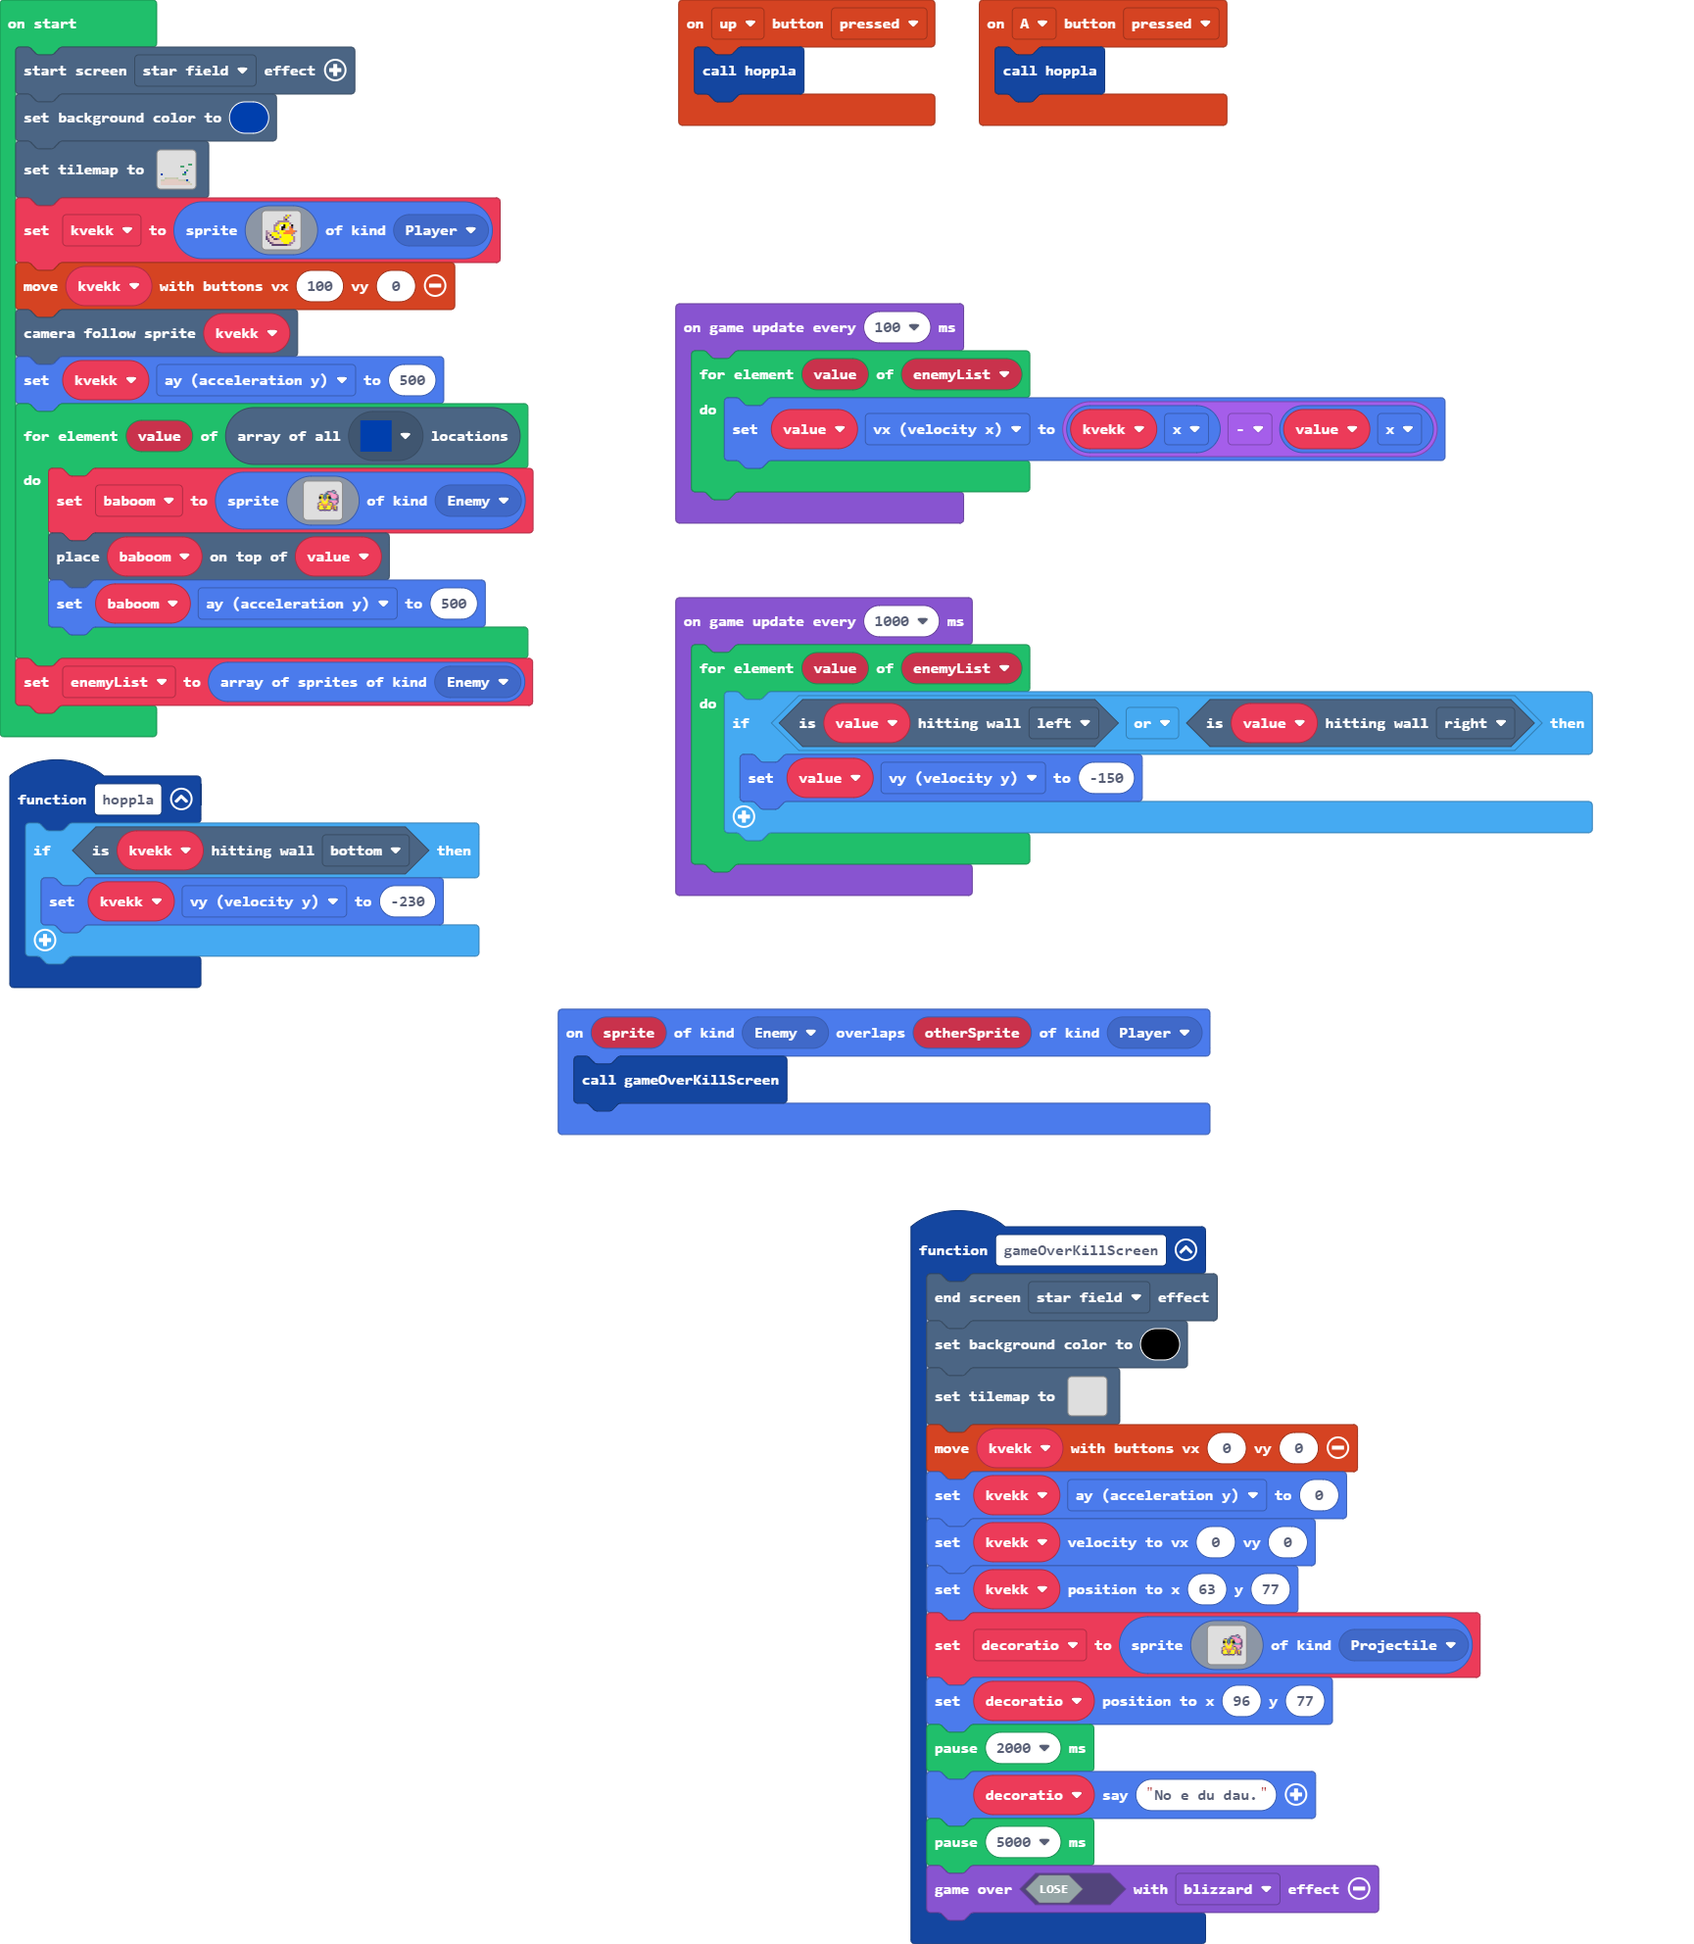
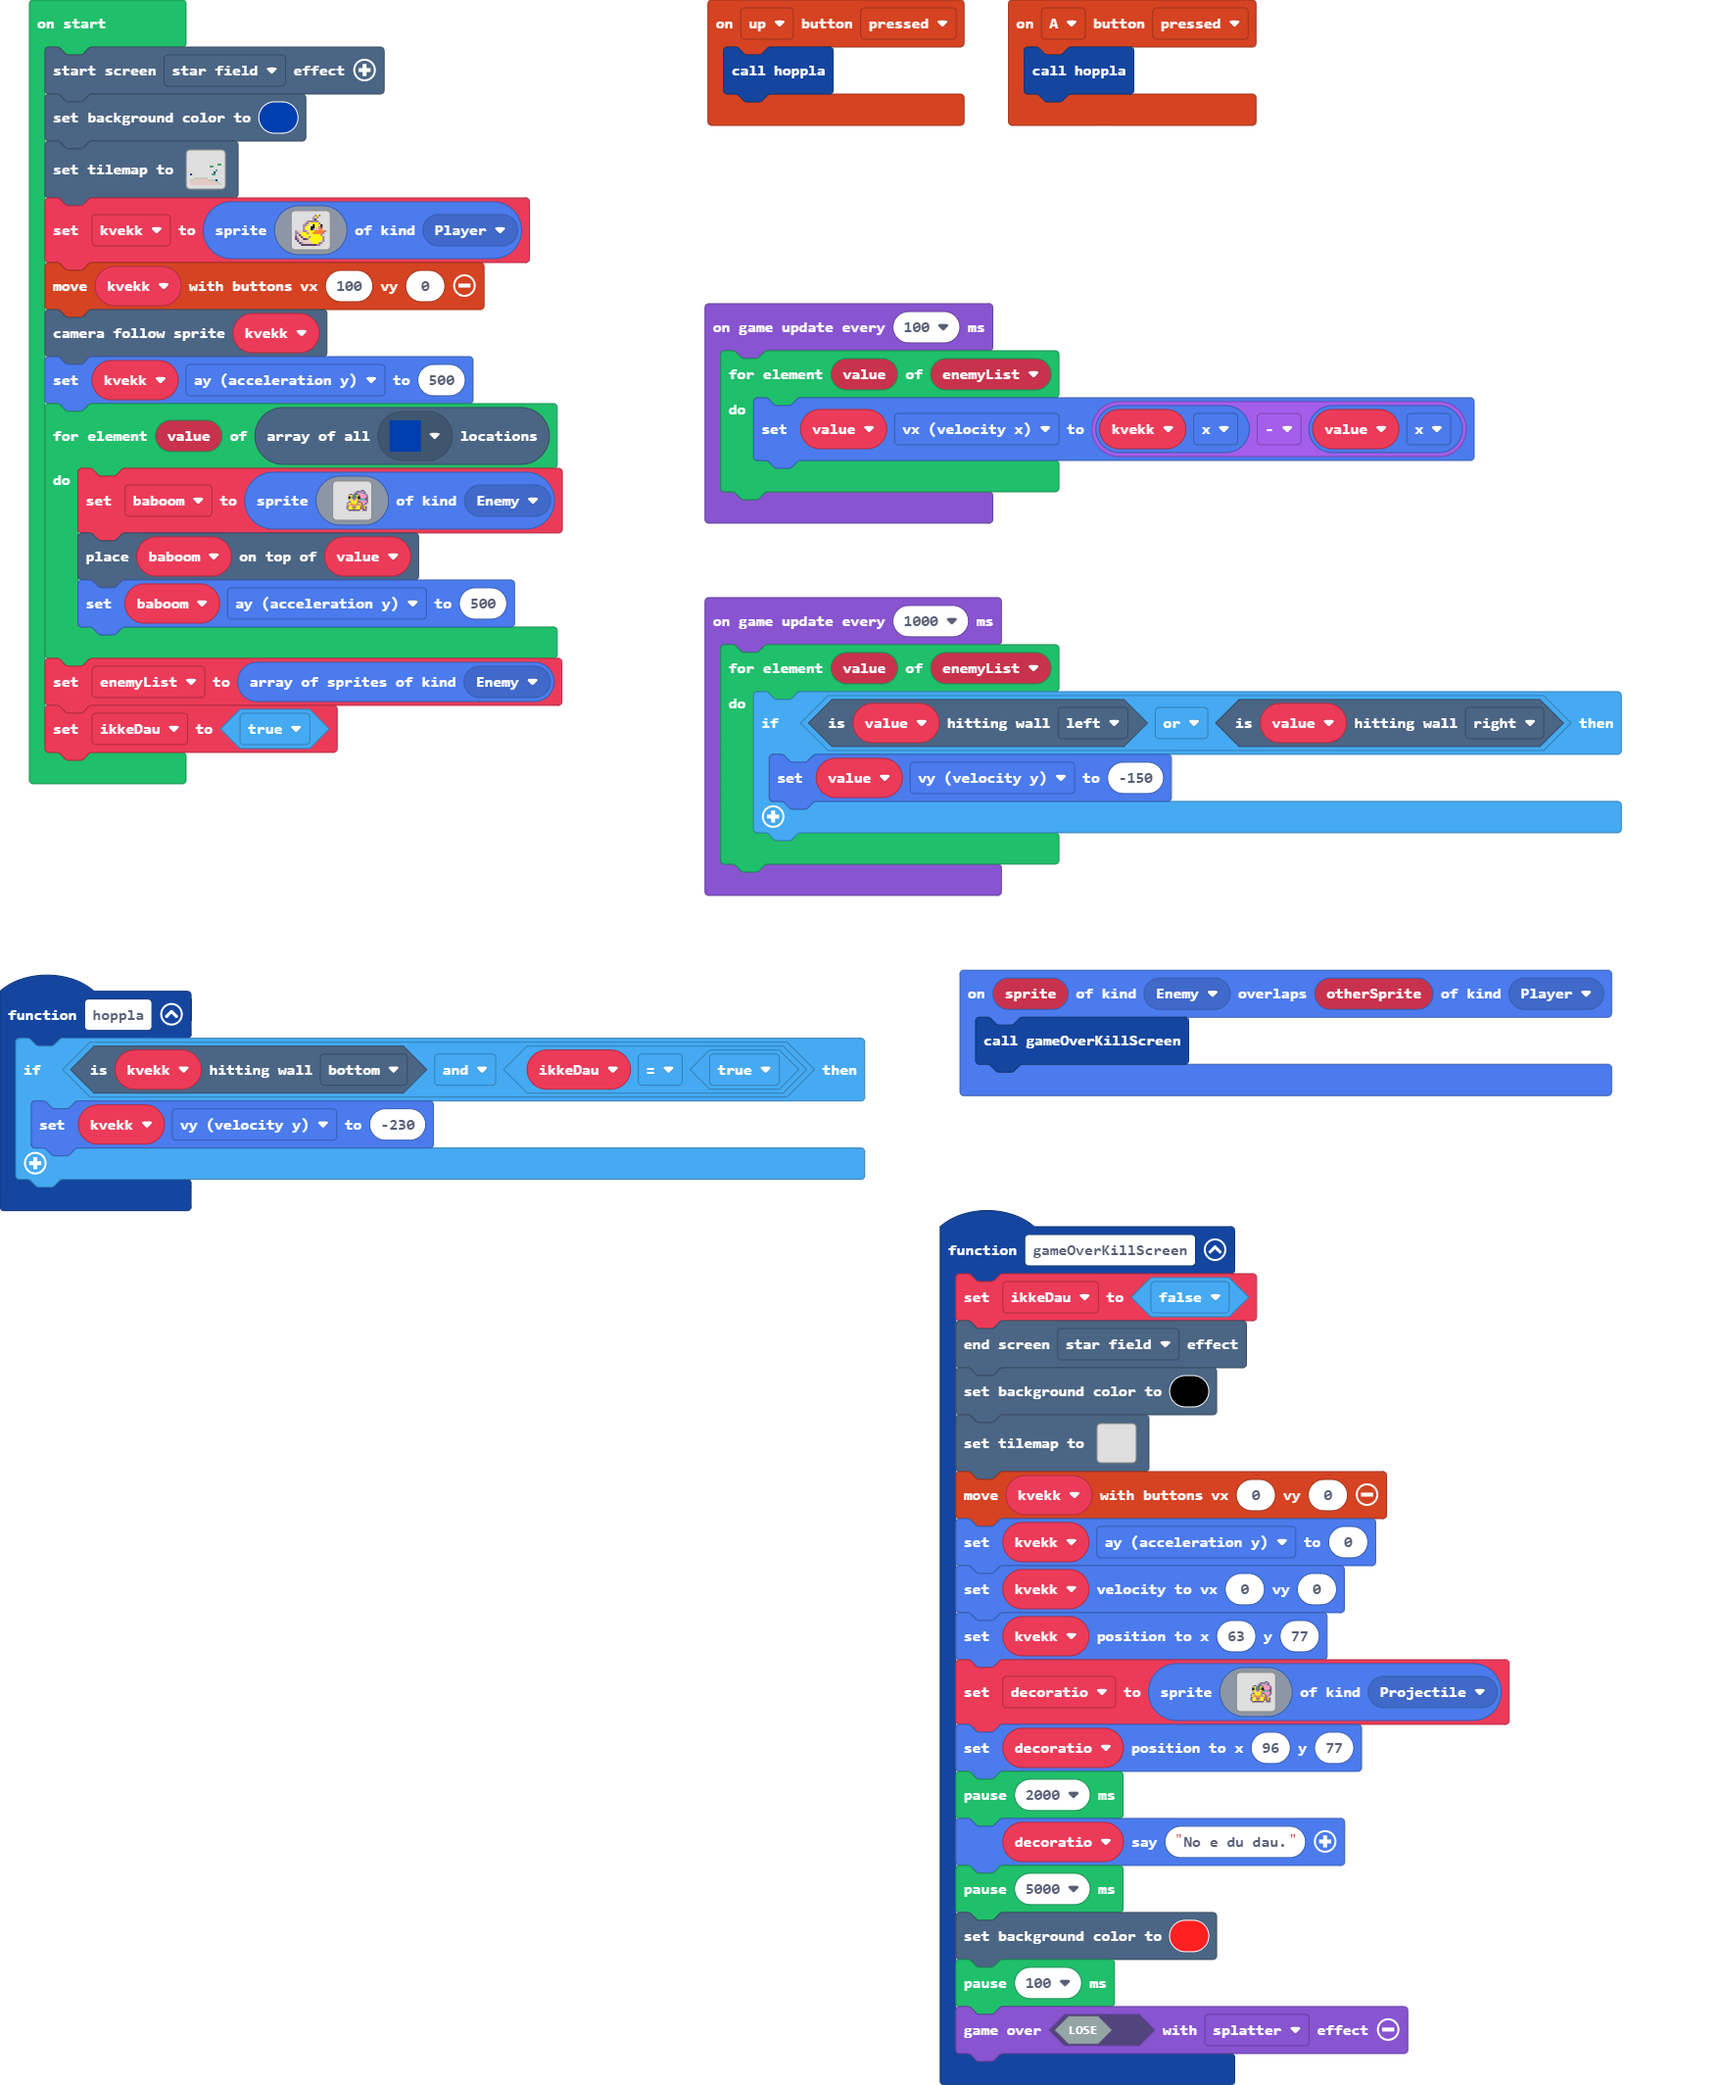
kanke hoppe i helvete lenger

diff --git a/main.ts b/main.ts
@@ -5,6 +5,7 @@ controller.A.onEvent(ControllerButtonEvent.Pressed, function () {
     hoppla()
 })
 function gameOverKillScreen () {
+    ikkeDau = false
     effects.starField.endScreenEffect()
     scene.setBackgroundColor(15)
     tiles.setTilemap(tilemap`level2`)
@@ -34,10 +35,12 @@ function gameOverKillScreen () {
     pause(2000)
     decoratio.say("No e du dau.")
     pause(5000)
-    game.over(false, effects.blizzard)
+    scene.setBackgroundColor(2)
+    pause(100)
+    game.over(false, effects.splatter)
 }
 function hoppla () {
-    if (kvekk.isHittingTile(CollisionDirection.Bottom)) {
+    if (kvekk.isHittingTile(CollisionDirection.Bottom) && ikkeDau == true) {
         kvekk.vy = -230
     }
 }
@@ -45,6 +48,7 @@ sprites.onOverlap(SpriteKind.Enemy, SpriteKind.Player, function (sprite, otherSp
     gameOverKillScreen()
 })
 let decoratio: Sprite = null
+let ikkeDau = false
 let baboom: Sprite = null
 let kvekk: Sprite = null
 effects.starField.startScreenEffect()
@@ -94,6 +98,7 @@ for (let value of tiles.getTilesByType(assets.tile`tile1`)) {
     baboom.ay = 500
 }
 let enemyList = sprites.allOfKind(SpriteKind.Enemy)
+ikkeDau = true
 game.onUpdateInterval(1000, function () {
     for (let value of enemyList) {
         if (value.isHittingTile(CollisionDirection.Left) || value.isHittingTile(CollisionDirection.Right)) {

diff --git a/images.g.ts b/images.g.ts
@@ -77,6 +77,24 @@ namespace myImages {
 . . . . . . . . . . . . . . . . 
 . . . . . . . . . . . . . . . . 
 `;
+            case "image7":return img`
+...................cc...
+...............cccc63c..
+..............c633336c..
+..........cc.c6cc33333c.
+.........b55c6c55c33333c
+.........ff5c6c5ff33333c
+.........ff5c6c5ff6333cc
+.........b553c355c6666cc
+..........b55355c333333c
+.........cc55555bcc3333c
+........c5545554b55c33c.
+........b54b4444bb5cbb..
+........c455b4b5554c45b.
+........c555c4c555c4c5c.
+........c5555c5555c4c5c.
+.........ccccccccc..ccc.
+`;
             case "image3":return img`
 . . . . . . . . . . b 5 b . . . 
 . . . . . . . . . b 5 b . . . . 
@@ -96,24 +114,6 @@ c b d d c c b 5 5 5 5 5 5 5 b .
 . . . c c c c c c c c b b . . . 
 `;
             case "image4":return img`
-...................cc...
-...............cccc63c..
-..............c633336c..
-..........cc.c6cc33333c.
-.........b55c6c55c33333c
-.........ff5c6c5ff33333c
-.........ff5c6c5ff6333cc
-.........b553c355c6666cc
-..........b55355c333333c
-.........cc55555bcc3333c
-........c5545554b55c33c.
-........b54b4444bb5cbb..
-........c455b4b5554c45b.
-........c555c4c555c4c5c.
-........c5555c5555c4c5c.
-.........ccccccccc..ccc.
-`;
-            case "image7":return img`
 ...................cc...
 ...............cccc63c..
 ..............c633336c..
